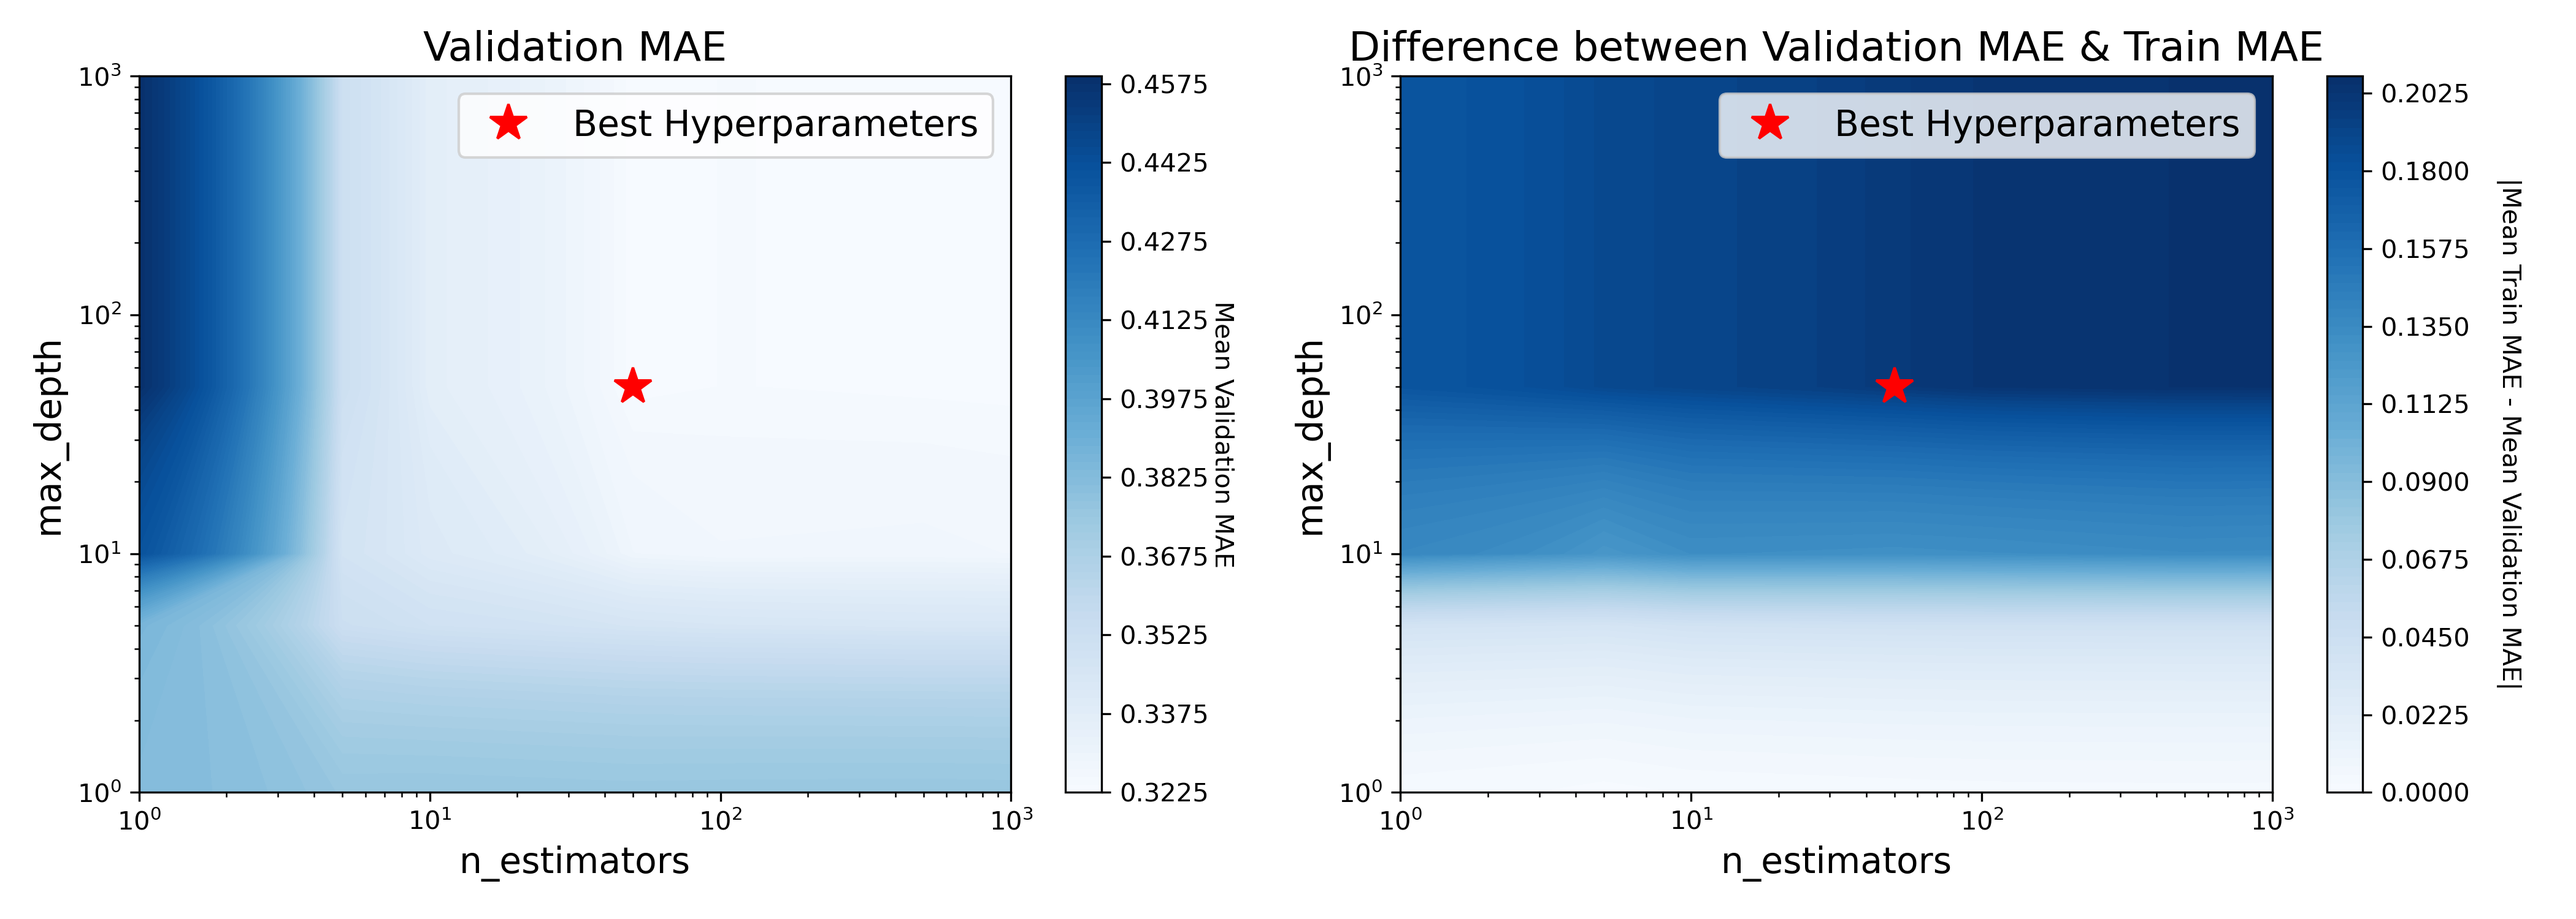
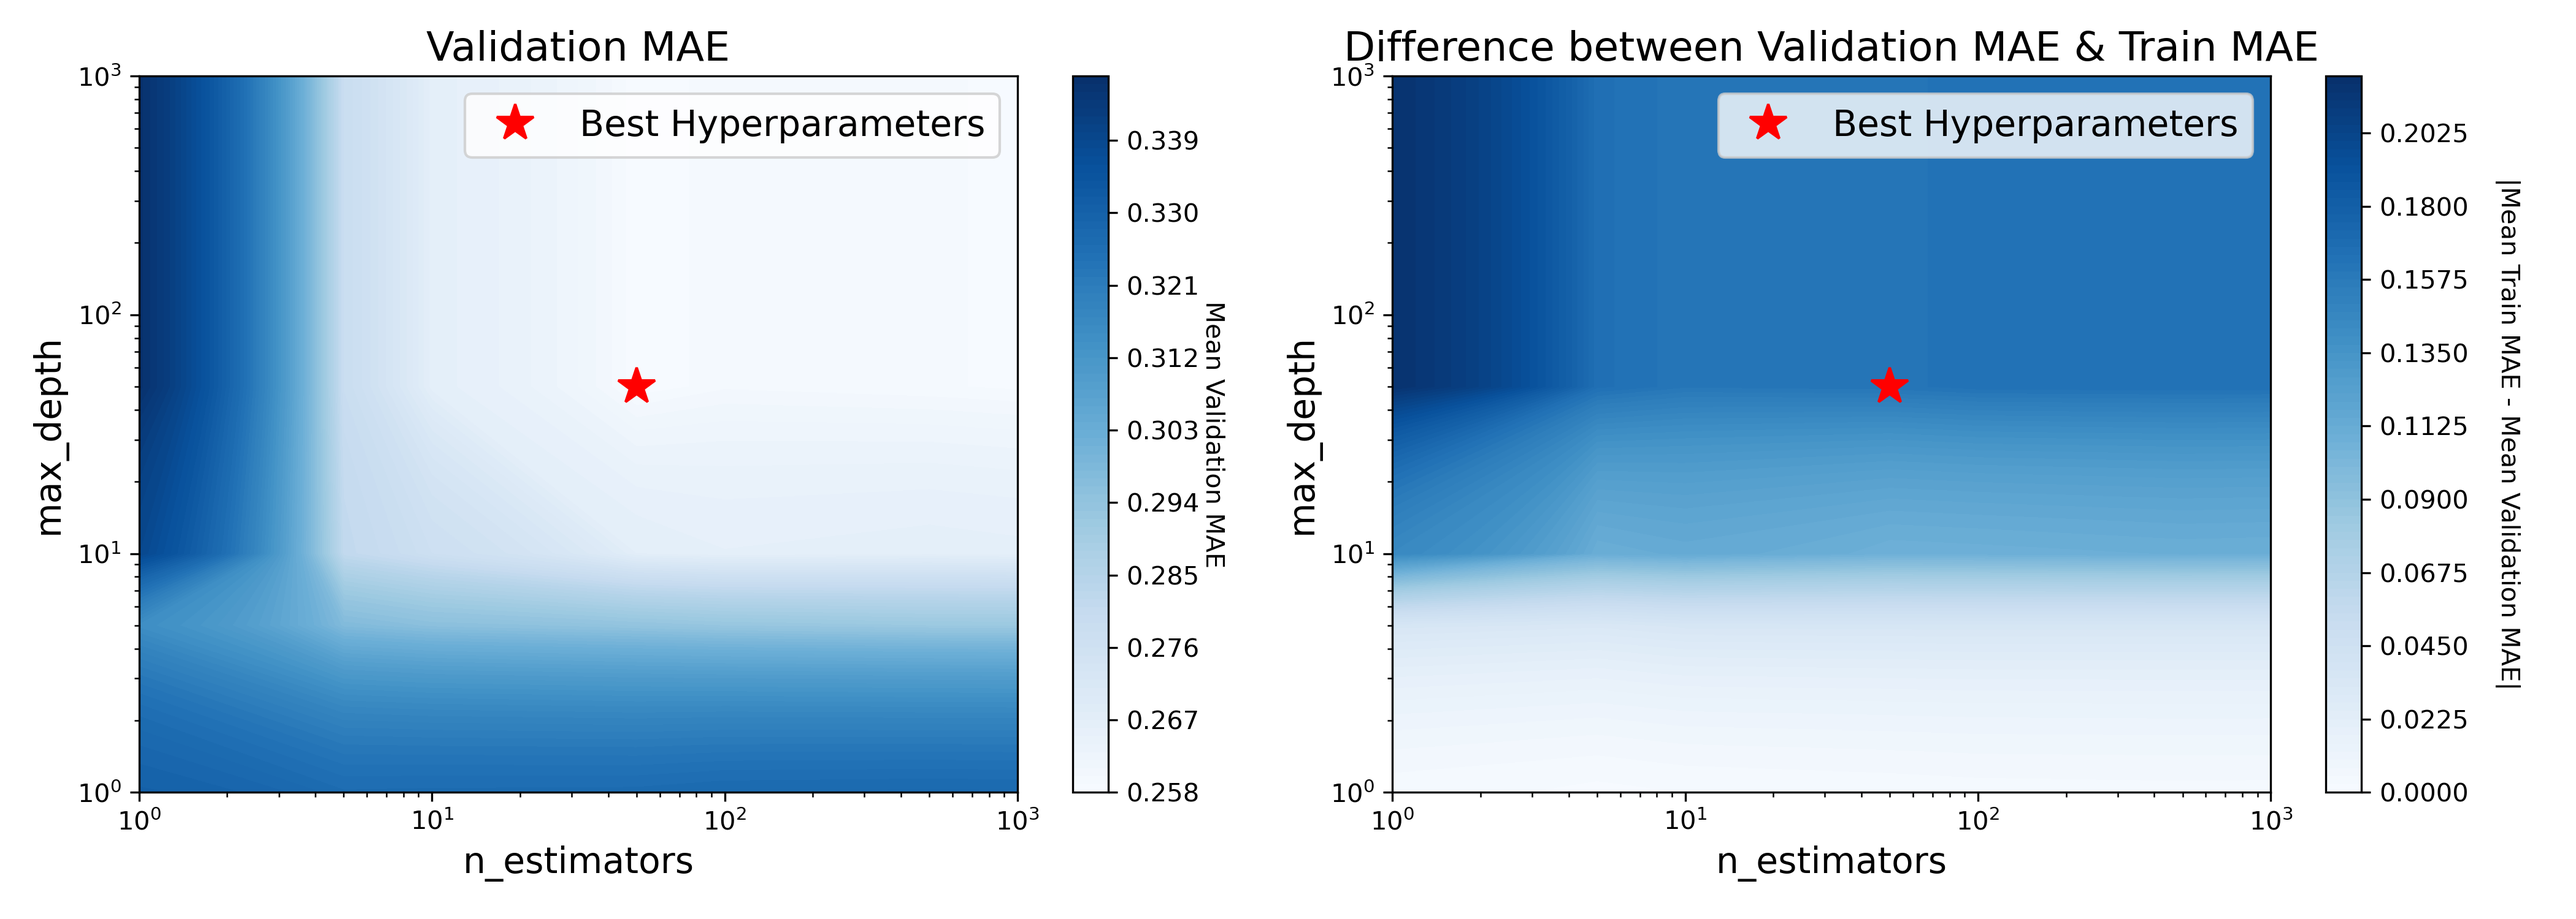
retuned the hyperparameters for SCS task with MAE as the metric

diff --git a/script4_solarCellSearchTask.py b/script4_solarCellSearchTask.py
@@ -206,7 +206,7 @@ rfRegParamsGrid = {'randomforestregressor__n_estimators'        :rfReg_n_estimat
 # make the grid search object - to comment out once the grid search has been run
 hpt_rfReg = GridSearchCV(pipeline_rfReg,
                          rfRegParamsGrid,
-                         scoring = 'neg_root_mean_squared_error',
+                         scoring = 'neg_mean_absolute_error',
                          cv = 10,
                          return_train_score = True, 
                          n_jobs = 20)
